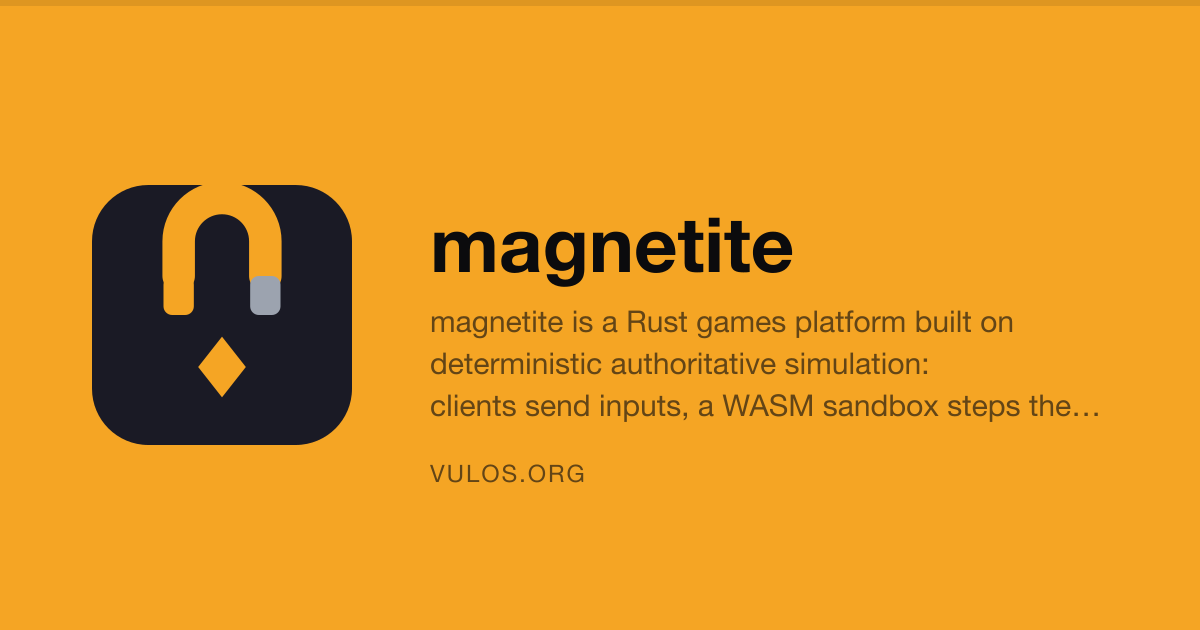
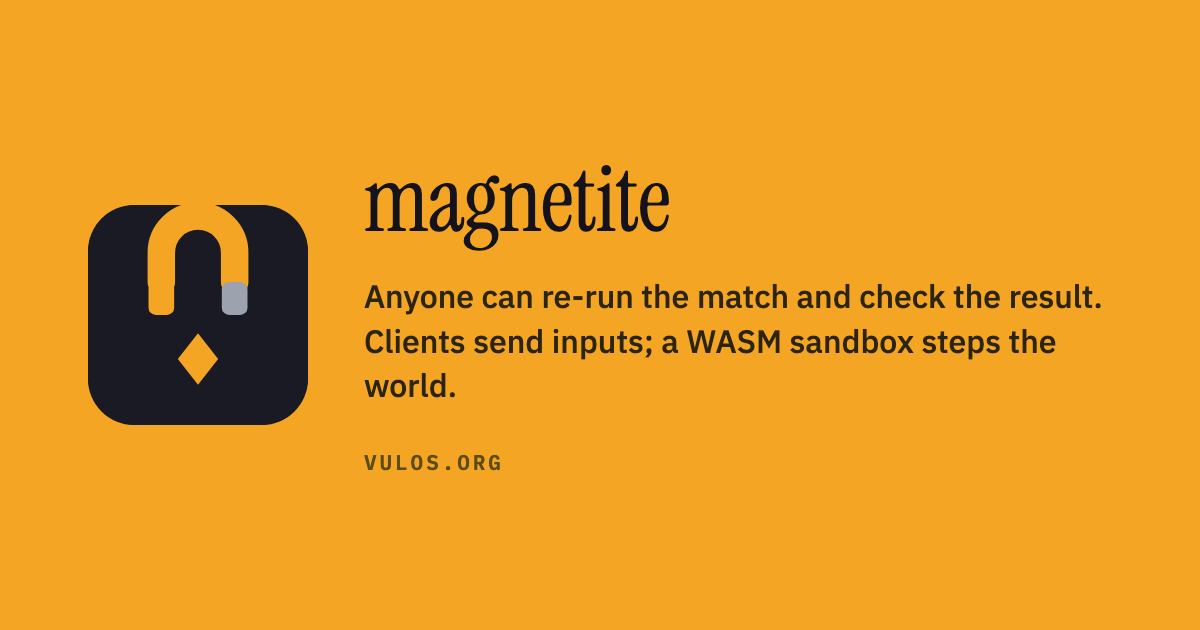
site: fix the og-card — it was the long meta description clipped mid-sentence
site/assets/og-card.png (1200x630, correct dimensions, mark already matched
brand/logo.svg) had no generator anywhere in the repo — it was a one-off
binary, and its body copy was the ~150-char meta description dumped in
verbatim and cut off with an ellipsis mid-word ("...the WASM sandbox steps
the…"). That's the image every share of this page renders; it read as
broken.

Added scripts/og-card.html (source of truth, vendored IBM Plex Sans/Mono +
Instrument Serif, no network fetch) and scripts/render-og-card.mjs (headless
Chromium screenshot at exactly 1200x630) so the card is reproducible instead
of a hand-edited PNG. New copy is card-specific, not reused meta text: two
short lines landing the one differentiator worth sharing — "Anyone can
re-run the match and check the result. Clients send inputs; a WASM sandbox
steps the world." Rendered through the script and looked at the output
before committing; brand mark reproduced verbatim from brand/logo.svg,
unchanged from before.

Agent-generated, machine-verified, NOT human-reviewed.

diff --git a/scripts/og-card.html b/scripts/og-card.html
@@ -1,0 +1,78 @@
+<!doctype html>
+<!--
+  magnetite — OG/Twitter share card source.
+
+  This is the single source of truth for site/assets/og-card.png. Never
+  hand-edit the PNG — regenerate it from this file with
+  `node scripts/render-og-card.mjs` (see that script's header). Copy is
+  card-specific (short, landing the one differentiator worth sharing), not
+  the long meta description reused verbatim — that produced a card that read
+  as clipped mid-sentence.
+
+  Brand mark reproduced verbatim from brand/logo.svg (do not redraw it — see
+  brand/logo.svg's own standing rule). Amber #F5A524 / tile #1A1A25 are the
+  brand mark's own colours, not the site's violet/magenta "field record"
+  editorial palette — the card represents the brand, the site represents the
+  page.
+-->
+<html>
+<head>
+<meta charset="utf-8" />
+<style>
+  @font-face {
+    font-family: 'Instrument Serif';
+    src: url('../site/fonts/instrument-serif.woff2') format('woff2');
+    font-weight: 400; font-style: normal;
+  }
+  @font-face {
+    font-family: 'IBM Plex Sans Var';
+    src: url('../site/fonts/ibm-plex-sans-var.woff2') format('woff2-variations');
+    font-weight: 100 700; font-style: normal;
+  }
+  @font-face {
+    font-family: 'IBM Plex Mono';
+    src: url('../site/fonts/ibm-plex-mono-600.woff2') format('woff2');
+    font-weight: 600; font-style: normal;
+  }
+  * { box-sizing: border-box; margin: 0; padding: 0; }
+  html, body { width: 1200px; height: 630px; background: #F5A524; overflow: hidden; }
+  .wrap { width: 1200px; height: 630px; display: flex; align-items: center; padding: 0 88px; gap: 56px; }
+  .tile { flex: none; width: 220px; height: 220px; border-radius: 46px; background: #1A1A25; }
+  .copy { flex: 1; }
+  .word {
+    font-family: 'Instrument Serif', Georgia, serif;
+    font-weight: 400; color: #14121A; font-size: 92px; letter-spacing: -0.01em; line-height: 1;
+  }
+  .desc {
+    margin-top: 28px;
+    font-family: 'IBM Plex Sans Var', -apple-system, BlinkMacSystemFont, 'Segoe UI', Helvetica, Arial, sans-serif;
+    font-weight: 500;
+    color: #2B2410; font-size: 32px; line-height: 1.4; max-width: 760px;
+  }
+  .foot {
+    margin-top: 40px;
+    font-family: 'IBM Plex Mono', ui-monospace, Menlo, Consolas, monospace;
+    font-weight: 600;
+    font-size: 21px; letter-spacing: 0.14em; color: #5C4B12;
+  }
+</style>
+</head>
+<body>
+  <div class="wrap">
+    <svg class="tile" viewBox="0 0 120 120" xmlns="http://www.w3.org/2000/svg" role="img" aria-label="magnetite">
+      <rect width="120" height="120" rx="26" fill="#1A1A25"/>
+      <g transform="translate(60,48)">
+        <path d="M -20 -6 V -22 A 20 20 0 0 1 20 -22 V -6" fill="none" stroke="#F5A524" stroke-width="15" stroke-linecap="round"/>
+        <rect x="-27" y="-6" width="14" height="18" rx="4" fill="#F5A524"/>
+        <rect x="13" y="-6" width="14" height="18" rx="4" fill="#9CA3AF"/>
+      </g>
+      <path d="M60 70 L71 84 L60 98 L49 84 Z" fill="#F5A524"/>
+    </svg>
+    <div class="copy">
+      <div class="word">magnetite</div>
+      <div class="desc">Anyone can re-run the match and check the result.<br>Clients send inputs; a WASM sandbox steps the world.</div>
+      <div class="foot">VULOS.ORG</div>
+    </div>
+  </div>
+</body>
+</html>
